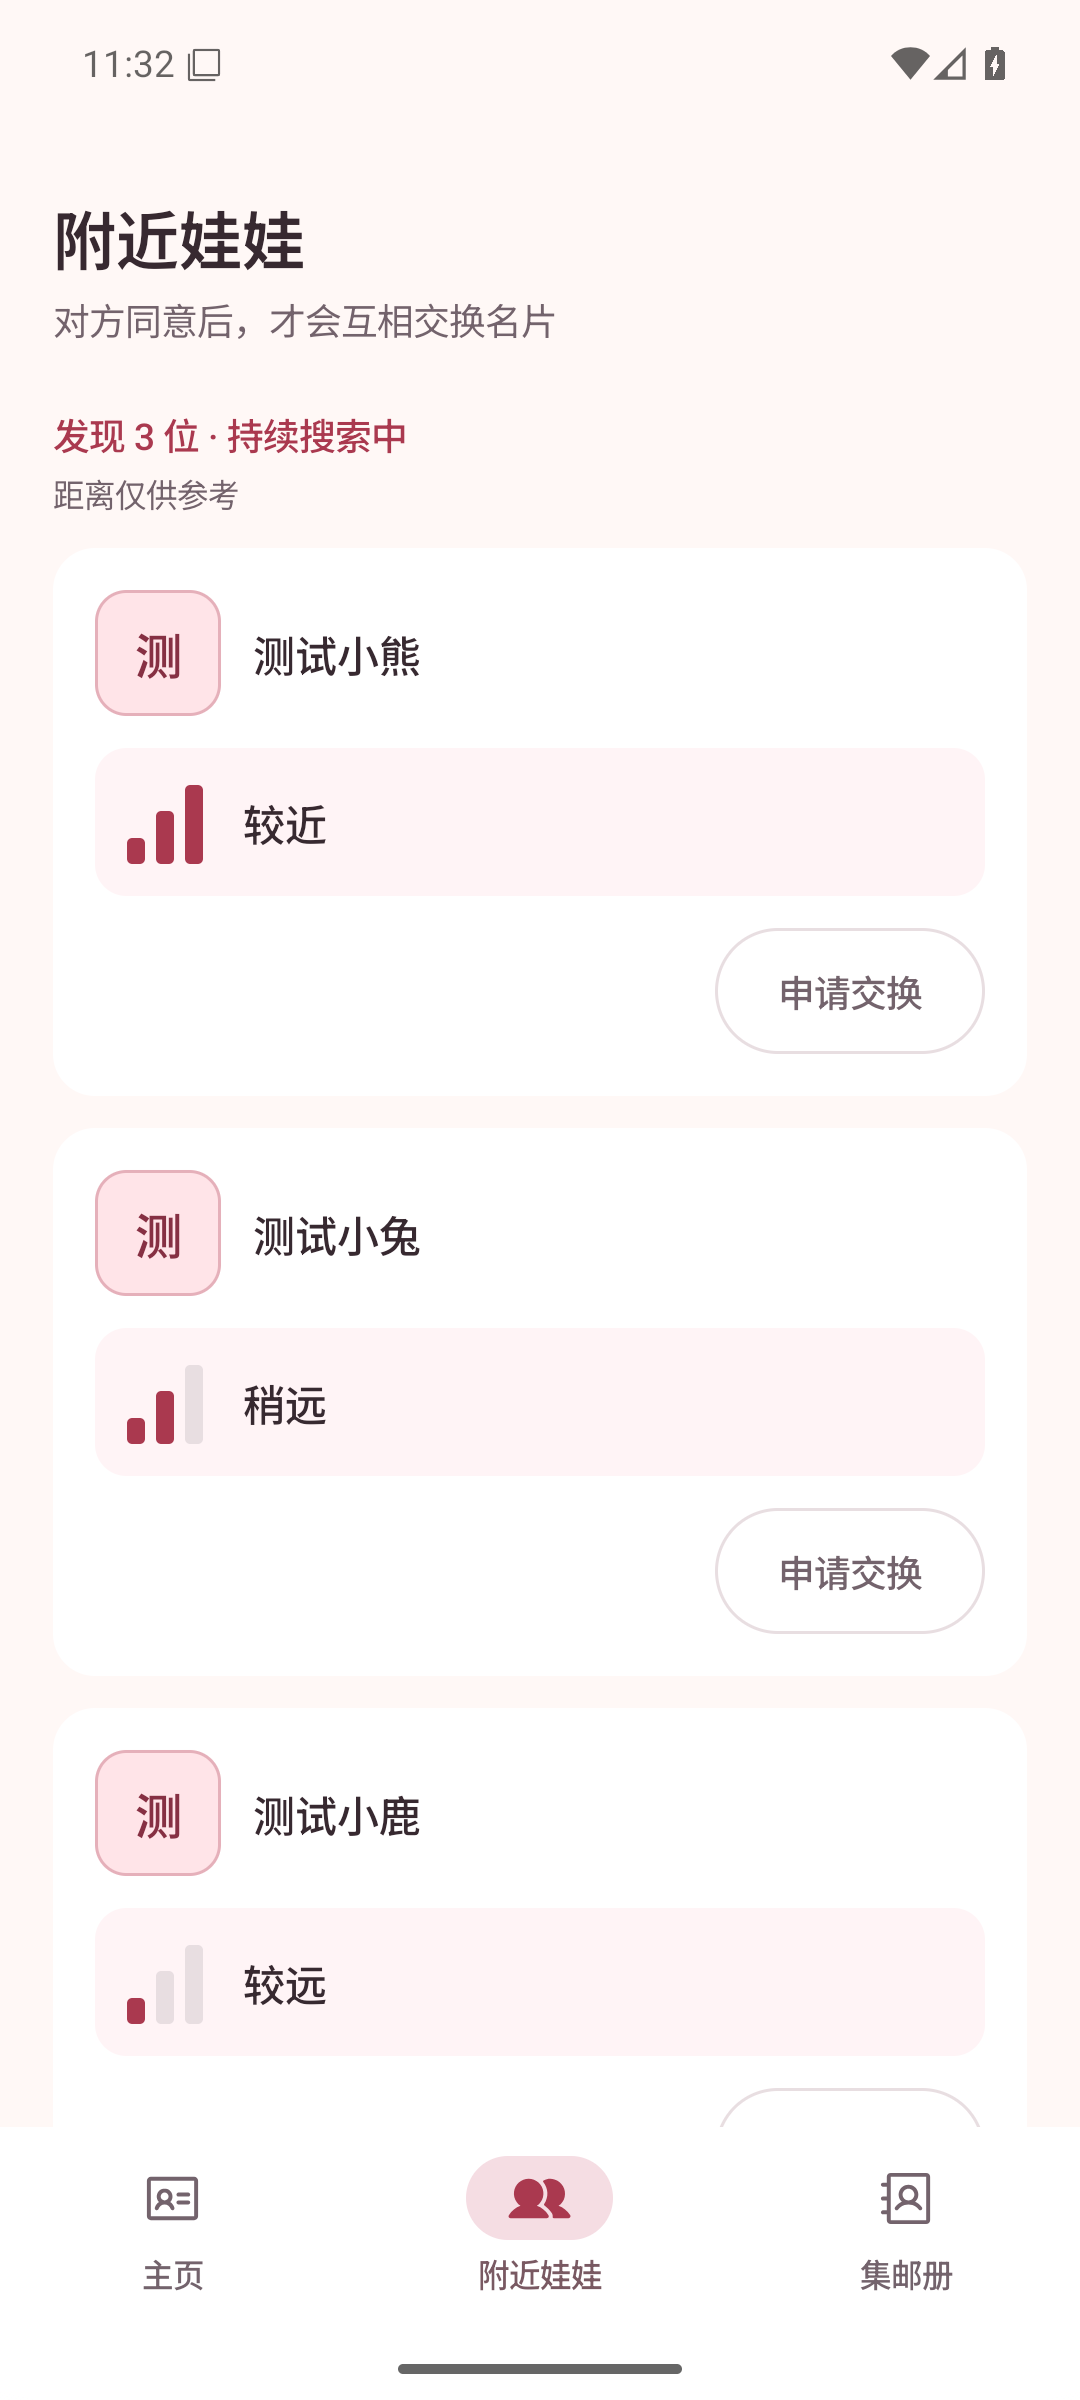
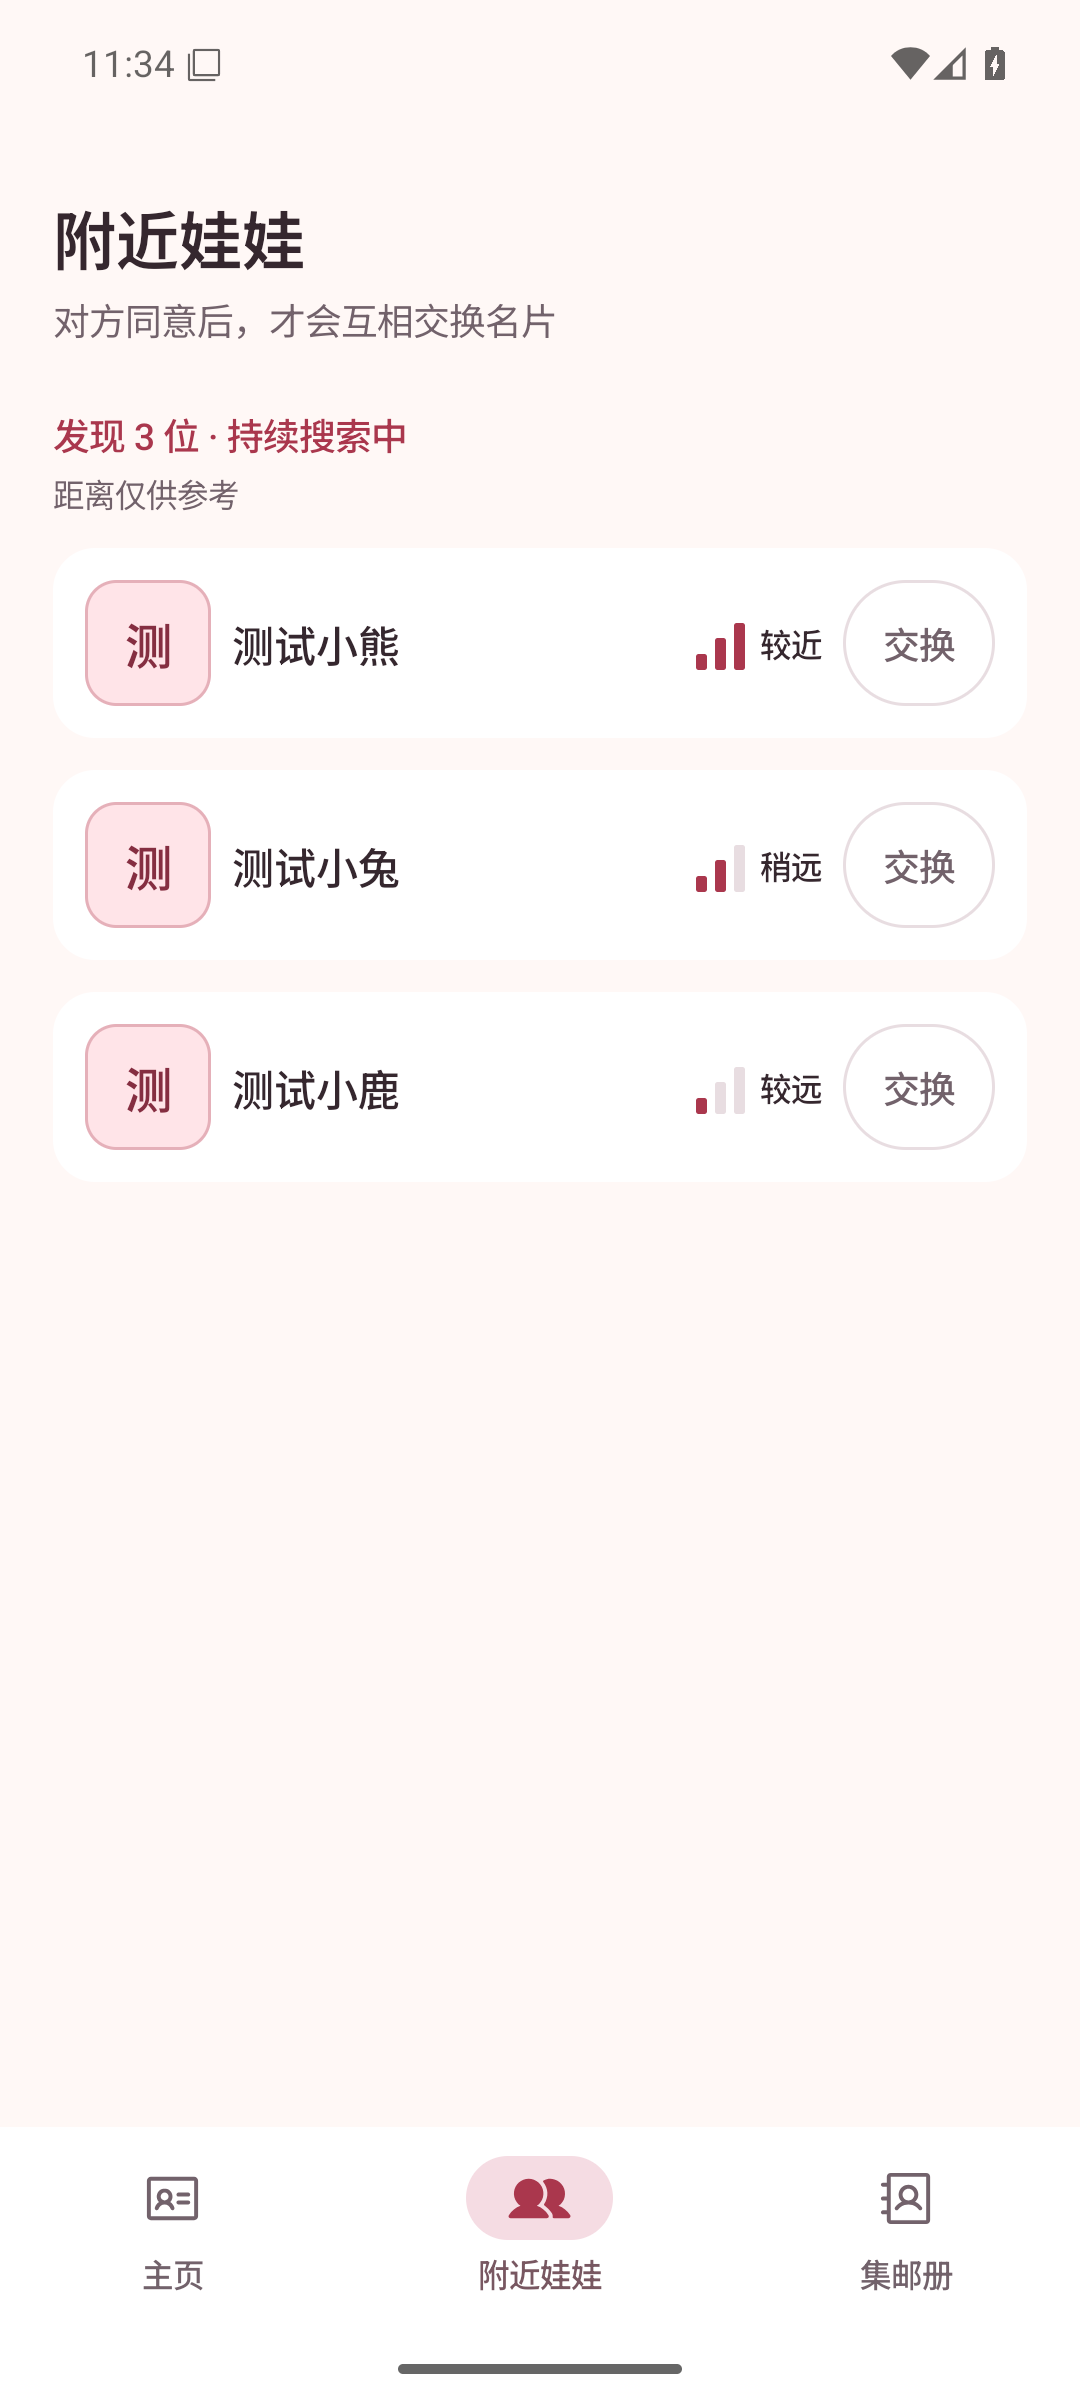
style: 将附近娃娃信息与操作收紧为横排

diff --git a/app/src/main/kotlin/app/pengwa/ui/BluetoothPage.kt b/app/src/main/kotlin/app/pengwa/ui/BluetoothPage.kt
@@ -47,6 +47,8 @@ import androidx.compose.ui.res.stringResource
 import androidx.compose.ui.semantics.clearAndSetSemantics
 import androidx.compose.ui.semantics.contentDescription
 import androidx.compose.ui.text.style.TextAlign
+import androidx.compose.ui.text.style.TextOverflow
+import androidx.compose.ui.semantics.semantics
 import androidx.compose.ui.unit.dp
 import androidx.lifecycle.compose.LifecycleResumeEffect
 import androidx.lifecycle.compose.collectAsStateWithLifecycle
@@ -177,37 +179,48 @@ private fun Prompt(message: String, actionLabel: String?, onAction: () -> Unit) 
 @Composable
 private fun PeerRow(peer: NearbyPeer, onExchange: () -> Unit) {
     Surface(shape = MaterialTheme.shapes.medium, color = MaterialTheme.colorScheme.surface) {
-        Column(Modifier.fillMaxWidth().padding(16.dp), verticalArrangement = Arrangement.spacedBy(12.dp)) {
-            Row(horizontalArrangement = Arrangement.spacedBy(12.dp), verticalAlignment = Alignment.CenterVertically) {
-                NameStamp(peer.name.orEmpty())
-                Column(Modifier.weight(1f)) {
-                    Text(peer.name ?: stringResource(R.string.bt_peer_unknown), style = MaterialTheme.typography.titleSmall)
-                    val status = when {
-                        peer.state == PeerState.Failed -> peer.message ?: stringResource(R.string.bt_failed)
-                        peer.state == PeerState.Exchanging -> stringResource(R.string.bt_requesting)
-                        peer.state == PeerState.Waiting -> stringResource(R.string.bt_waiting)
-                        peer.state == PeerState.Done -> stringResource(R.string.bt_done)
-                        peer.name == null -> stringResource(R.string.bt_reading_name)
-                        else -> null
-                    }
-                    if (status != null) Text(
-                        text = status,
-                        style = MaterialTheme.typography.bodyMedium,
-                        color = when (peer.state) {
-                            PeerState.Failed -> MaterialTheme.colorScheme.error
-                            PeerState.Done -> LocalStatusColors.current.success
-                            else -> MaterialTheme.colorScheme.onSurfaceVariant
-                        },
-                    )
+        Row(
+            Modifier.fillMaxWidth().padding(12.dp),
+            horizontalArrangement = Arrangement.spacedBy(8.dp),
+            verticalAlignment = Alignment.CenterVertically,
+        ) {
+            NameStamp(peer.name.orEmpty())
+            Column(Modifier.weight(1f)) {
+                Text(peer.name ?: stringResource(R.string.bt_peer_unknown),
+                    style = MaterialTheme.typography.titleSmall, maxLines = 1, overflow = TextOverflow.Ellipsis)
+                val status = when {
+                    peer.state == PeerState.Failed -> peer.message ?: stringResource(R.string.bt_failed)
+                    peer.state == PeerState.Exchanging -> stringResource(R.string.bt_requesting)
+                    peer.state == PeerState.Waiting -> stringResource(R.string.bt_waiting)
+                    peer.state == PeerState.Done -> stringResource(R.string.bt_done)
+                    peer.name == null -> stringResource(R.string.bt_reading_name)
+                    else -> null
                 }
+                if (status != null) Text(
+                    text = status,
+                    maxLines = 2, overflow = TextOverflow.Ellipsis,
+                    style = MaterialTheme.typography.bodySmall,
+                    color = when (peer.state) {
+                        PeerState.Failed -> MaterialTheme.colorScheme.error
+                        PeerState.Done -> LocalStatusColors.current.success
+                        else -> MaterialTheme.colorScheme.onSurfaceVariant
+                    },
+                )
             }
             PeerSignal(peer.rssi)
             when (peer.state) {
                 PeerState.Exchanging, PeerState.Waiting -> CircularProgressIndicator(
-                    modifier = Modifier.align(Alignment.End).size(24.dp), strokeWidth = 2.dp)
-                PeerState.Done -> PengWaIcon(PengWaIcons.Success, modifier = Modifier.align(Alignment.End), tint = LocalStatusColors.current.success)
-                else -> OutlinedButton(onClick = onExchange, modifier = Modifier.align(Alignment.End).heightIn(min = 48.dp)) {
-                    Text(stringResource(if (peer.state == PeerState.Failed) R.string.bt_retry else R.string.bt_request))
+                    modifier = Modifier.size(24.dp), strokeWidth = 2.dp)
+                PeerState.Done -> PengWaIcon(PengWaIcons.Success, tint = LocalStatusColors.current.success)
+                else -> {
+                    val action = stringResource(if (peer.state == PeerState.Failed) R.string.bt_retry else R.string.bt_request)
+                    OutlinedButton(
+                        onClick = onExchange,
+                        modifier = Modifier.heightIn(min = 48.dp).semantics { contentDescription = action },
+                        contentPadding = PaddingValues(horizontal = 10.dp, vertical = 8.dp),
+                    ) {
+                        Text(stringResource(if (peer.state == PeerState.Failed) R.string.bt_retry else R.string.bt_request_short), maxLines = 1)
+                    }
                 }
             }
         }
@@ -230,26 +243,24 @@ private fun PeerSignal(rssi: Int) {
         NearbySignal.Unknown -> R.string.bt_distance_unknown
     })
     val description = "$proximity，$strength"
-    Surface(
-        color = MaterialTheme.colorScheme.surfaceContainerLow,
-        shape = MaterialTheme.shapes.small,
-        modifier = Modifier.fillMaxWidth().clearAndSetSemantics { contentDescription = description },
+    Row(
+        Modifier.clearAndSetSemantics { contentDescription = description },
+        horizontalArrangement = Arrangement.spacedBy(4.dp),
+        verticalAlignment = Alignment.CenterVertically,
     ) {
-        Row(Modifier.padding(12.dp), horizontalArrangement = Arrangement.spacedBy(12.dp), verticalAlignment = Alignment.CenterVertically) {
-            Row(
-                modifier = Modifier.size(32.dp),
-                horizontalArrangement = Arrangement.spacedBy(4.dp),
-                verticalAlignment = Alignment.Bottom,
-            ) {
-                repeat(3) { index ->
-                    Box(Modifier.width(7.dp).height((10 + index * 10).dp).background(
-                        color = if (index < signal.bars) MaterialTheme.colorScheme.primary
-                            else MaterialTheme.colorScheme.outlineVariant,
-                        shape = RoundedCornerShape(2.dp),
-                    ))
-                }
+        Row(
+            modifier = Modifier.size(20.dp),
+            horizontalArrangement = Arrangement.spacedBy(3.dp),
+            verticalAlignment = Alignment.Bottom,
+        ) {
+            repeat(3) { index ->
+                Box(Modifier.width(4.dp).height((6 + index * 6).dp).background(
+                    color = if (index < signal.bars) MaterialTheme.colorScheme.primary
+                        else MaterialTheme.colorScheme.outlineVariant,
+                    shape = RoundedCornerShape(1.dp),
+                ))
             }
-            Text(proximity, modifier = Modifier.weight(1f), style = MaterialTheme.typography.titleSmall)
         }
+        Text(proximity, style = MaterialTheme.typography.labelMedium)
     }
 }

diff --git a/docs/screenshots/nearby-signal/README.md b/docs/screenshots/nearby-signal/README.md
@@ -1,6 +1,6 @@
 # 附近娃娃：信号与距离参考
 
-附近列表新增三格信号指示和“较近／稍远／较远”距离参考，不显示 dBm 数字或重复的信号文字。交换状态独立保留，等待、失败、已交换时仍可查看信号；不可用的信号显示空格和“距离未知”。信号信息提供合并后的无障碍描述。
+附近列表新增三格信号指示和“较近／稍远／较远”距离参考，不显示 dBm 数字或重复的信号文字。交换状态独立保留，等待、失败、已交换时仍可查看信号；不可用的信号显示空格和“距离未知”。头像、名字、信号格、距离与交换操作排列在同一行；状态位于名字下方，长名字单行省略。信号信息提供合并后的无障碍描述，按钮读屏仍为“申请交换”。
 
 距离仅根据信号强弱粗略判断，不代表测量出的物理距离。未获取或校准一米参考功率，因此不展示米数。沿用原有强度分界：RSSI ≥ -60 为强／较近，-75 至 -61 为中／稍远，低于 -75 为弱／较远。有效范围依据 [Android ScanResult.getRssi 文档](https://developer.android.com/reference/android/bluetooth/le/ScanResult#getRssi()) 为 -127 至 126，范围外显示未知。
 
@@ -22,11 +22,15 @@
 | 附近娃娃，320dp／1.5 倍字体 | ![窄屏变更前](before-narrow.png) | ![窄屏变更后](after-narrow.png) |
 | 长名字、等待、失败、已交换 | ![交换状态变更前](before-states.png) | ![交换状态变更后](after-states.png) |
 
-列表滚动后，补充展示弱信号、操作按钮和成功状态：
+紧凑布局可直接展示三位娃友，补充主题与状态截图：
 
-| 浅色列表底部 | 深色列表底部 | 窄屏滚动 | 交换状态列表底部 |
+| 浅色完整列表 | 深色完整列表 | 窄屏列表 | 交换状态列表 |
 |---|---|---|---|
 | ![浅色滚动](after-light-scrolled.png) | ![深色滚动](after-dark-scrolled.png) | ![窄屏滚动](after-narrow-scrolled.png) | ![已交换](after-states-scrolled.png) |
+
+窄屏大字体交换状态：
+
+![窄屏等待、失败、已交换](after-states-narrow.png)
 
 ## 复现步骤
 
@@ -40,7 +44,7 @@
    ```
 
 4. 确认三格／两格／一格分别对应较近／稍远／较远，页面不显示 dBm 数字；滚动后能看到第三人的信号和申请按钮。
-5. 将 sample 改为 6 并重新启动，确认未知信号为空格且不显示 127 dBm，长名字完整换行；等待显示进度、失败可重试、成功显示勾选，三种状态都保留信号信息。
+5. 将 sample 改为 6 并重新启动，确认未知信号为空格且不显示 127 dBm，长名字单行省略且无障碍节点保留全名；等待显示进度、失败可重试、成功显示勾选，三种状态都保留信号信息。
 6. 用 `adb -s emulator-5556 shell cmd uimode night yes` 切换深色（`no` 恢复浅色）。
 7. 窄屏验证：`adb -s emulator-5556 shell wm size 840x1680`，`adb -s emulator-5556 shell settings put system font_scale 1.5`；滚动确认文字和按钮可查看。完成后执行 `wm size reset` 并将 `font_scale` 恢复为 `1.0`。
 8. 截图：`adb -s emulator-5556 exec-out screencap -p > screenshot.png`。
@@ -48,6 +52,6 @@
 ## 验证结果与边界
 
 - 173 项单元测试通过，包括信号各档边界、有效 RSSI 全范围及非法数值回退；Debug 构建、lint 和 `git diff --check` 通过。
-- 已检查上述运行中截图，窄屏文字可换行，列表可滚动查看操作按钮。
+- 已检查上述运行中截图，窄屏主信息横向排列，状态最多两行、超长省略，操作按钮可见。
 - 已检查 UI Automator 节点，距离和信号强弱合并为一条描述；没有进行 TalkBack 语音实测。
 - 截图场景仅注入测试数据，不启用蓝牙硬件；真实双机扫描、走近走远时的刷新、遮挡和不同手机对信号的影响仍待实测，不将其标记为完成。
